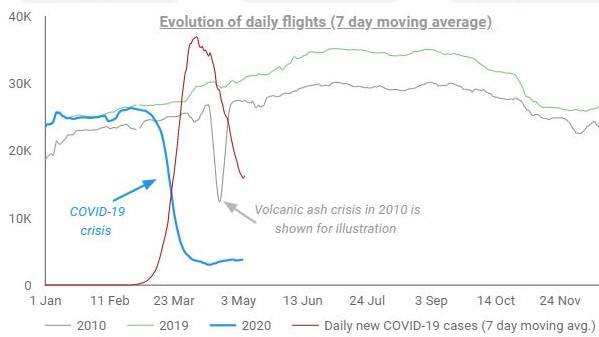
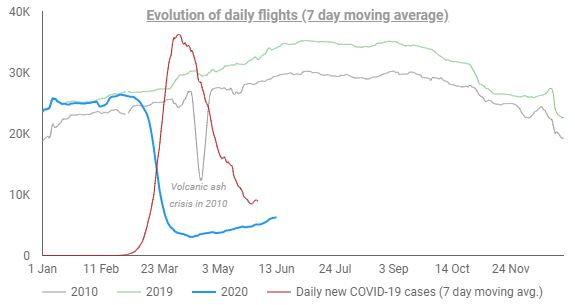
COVID traffic update up to end of May

diff --git a/content/covid/covid_traffic.html b/content/covid/covid_traffic.html
@@ -49,7 +49,7 @@ date: '2020-04-16'
 <p>The table below provides an overview of the traffic evolution at Air Navigation Service Provider level (all controlled flights including overflights).</p>
 The corresponding data is available for download in the <a href="/data/">data section</a>.<br>
 <div class="resp-container">
-<iframe class="resp-iframe" src="https://datastudio.google.com/embed/reporting/a960e72f-e79d-47f4-8ef1-e7c5cecb1ac5/page/JSNJB" frameborder="0" style="border:0" allowfullscreen>
+<iframe class="resp-iframe" src="https://datastudio.google.com/embed/reporting/b2b43aeb-ce1d-4c7e-961a-8bb646368111/page/JSNJB" frameborder="0" style="border:0" allowfullscreen>
 </iframe>
 </div>
 </div>
